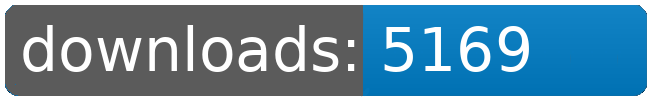
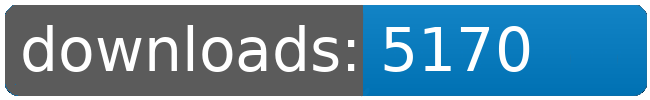
dl log written

Changed region(s): [[0.7077, 0.24, 0.8308, 0.72]]

diff --git a/README.md b/README.md
@@ -21,8 +21,8 @@
 		<td>5577</td>
 		<td>5620</td>
 		<td>5652</td>
-		<td>5683</td>
-		<td>+ 31</td>
+		<td>5684</td>
+		<td>+ 32</td>
 	</tr>
 	<tr>
 		<td>Factory.Outlets</td>
@@ -98,8 +98,8 @@
 		<td>5108</td>
 		<td>5130</td>
 		<td>5153</td>
-		<td>5169</td>
-		<td>+ 16</td>
+		<td>5170</td>
+		<td>+ 17</td>
 	</tr>
 	<tr>
 		<td></td>
@@ -109,8 +109,8 @@
 		<td></td>
 		<td></td>
 		<td></td>
-		<td>44615</td>
-		<td>168</td>
+		<td>44617</td>
+		<td>170</td>
 	</tr>
 </table>
 </sub></sup>
@@ -157,8 +157,8 @@
 		<td>5577</td>
 		<td>5620</td>
 		<td>5652</td>
-		<td>5683</td>
-		<td>+ 31</td>
+		<td>5684</td>
+		<td>+ 32</td>
 	</tr>
 	<tr>
 		<td>Korunak.Defense.Drones</td>
@@ -212,8 +212,8 @@
 		<td>5108</td>
 		<td>5130</td>
 		<td>5153</td>
-		<td>5169</td>
-		<td>+ 16</td>
+		<td>5170</td>
+		<td>+ 17</td>
 	</tr>
 	<tr>
 		<td></td>
@@ -223,8 +223,8 @@
 		<td></td>
 		<td></td>
 		<td></td>
-		<td>44615</td>
-		<td>168</td>
+		<td>44617</td>
+		<td>170</td>
 	</tr>
 </table>
 </sub></sup>
